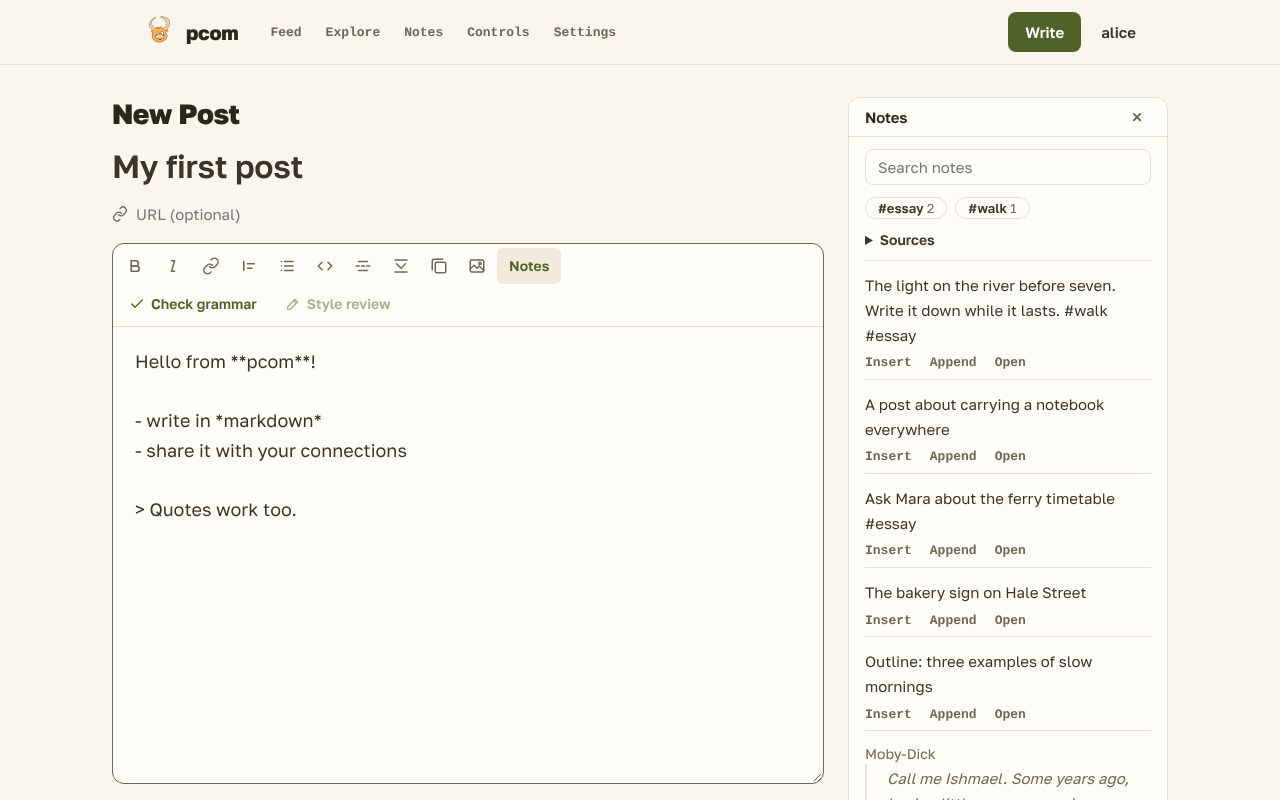
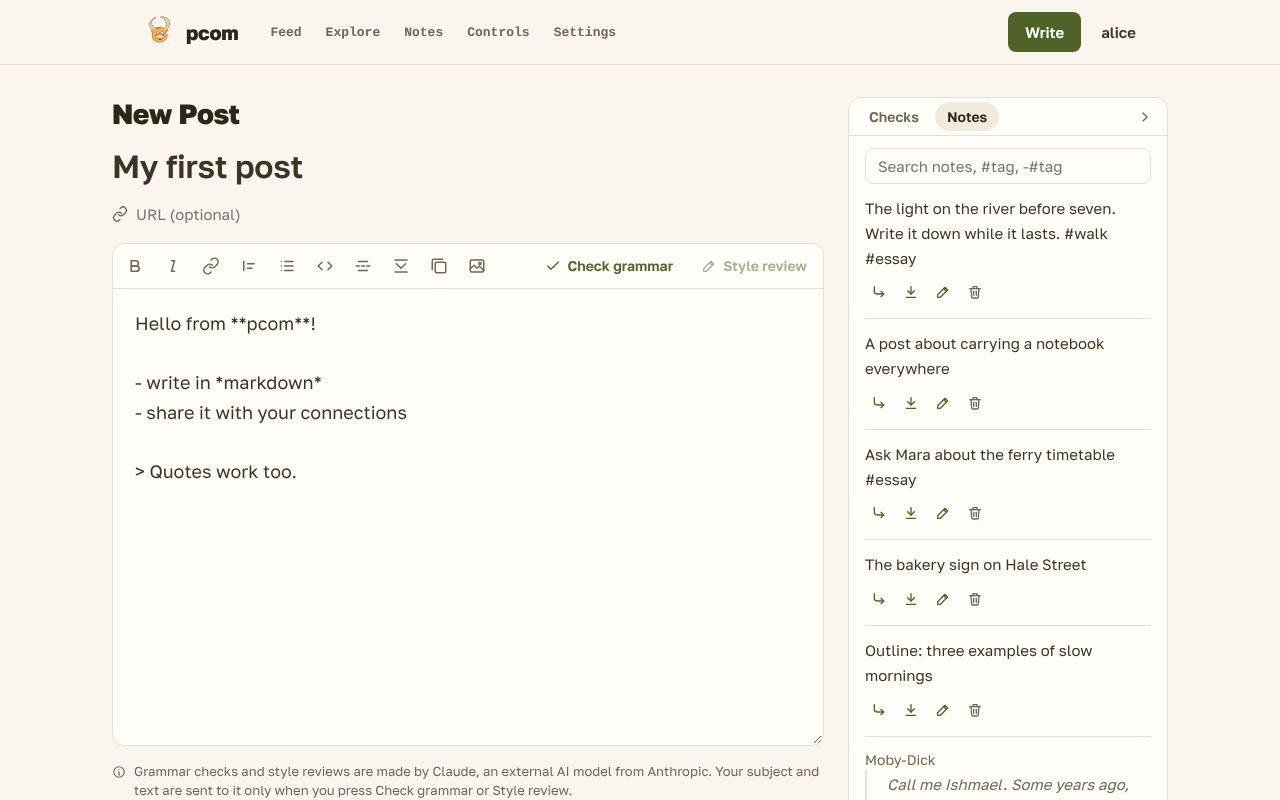
docs(guide): screenshots of the reworked notes page and editor sidebar
Claude-Session: https://claude.ai/code/session_01F54QM8US5w82vMawKt6t6E

diff --git a/e2e/browser/screenshots/screenshots_test.go b/e2e/browser/screenshots/screenshots_test.go
@@ -253,6 +253,8 @@ func openNotesPanel(t *testing.T, page playwright.Page) {
 	t.Helper()
 
 	fillEditor(t, page)
+	// the sidebar starts collapsed in a fresh browser
+	require.NoError(t, page.GetByRole("button", playwright.PageGetByRoleOptions{Name: "Expand the sidebar", Exact: new(true)}).Click())
 	require.NoError(t, page.GetByRole("tab", playwright.PageGetByRoleOptions{Name: "Notes", Exact: new(true)}).Click())
 }
 
